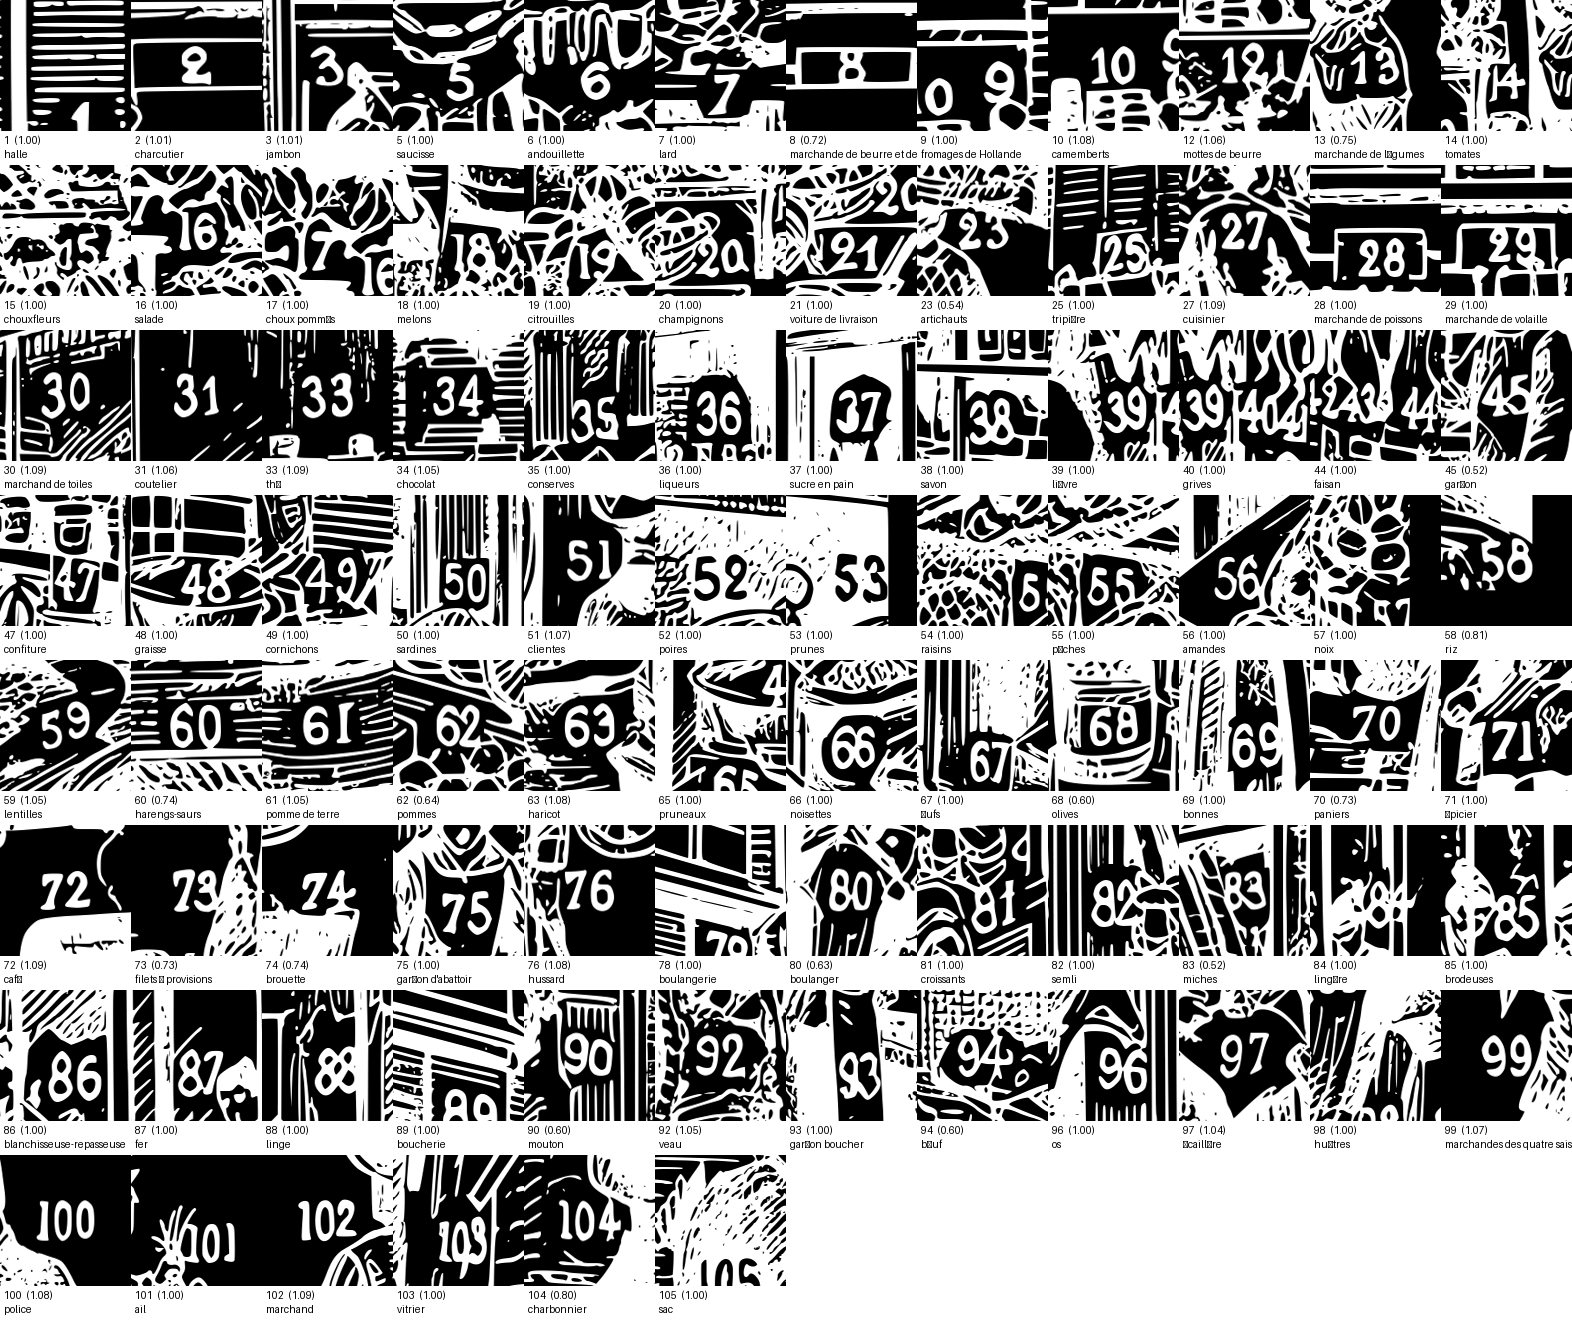
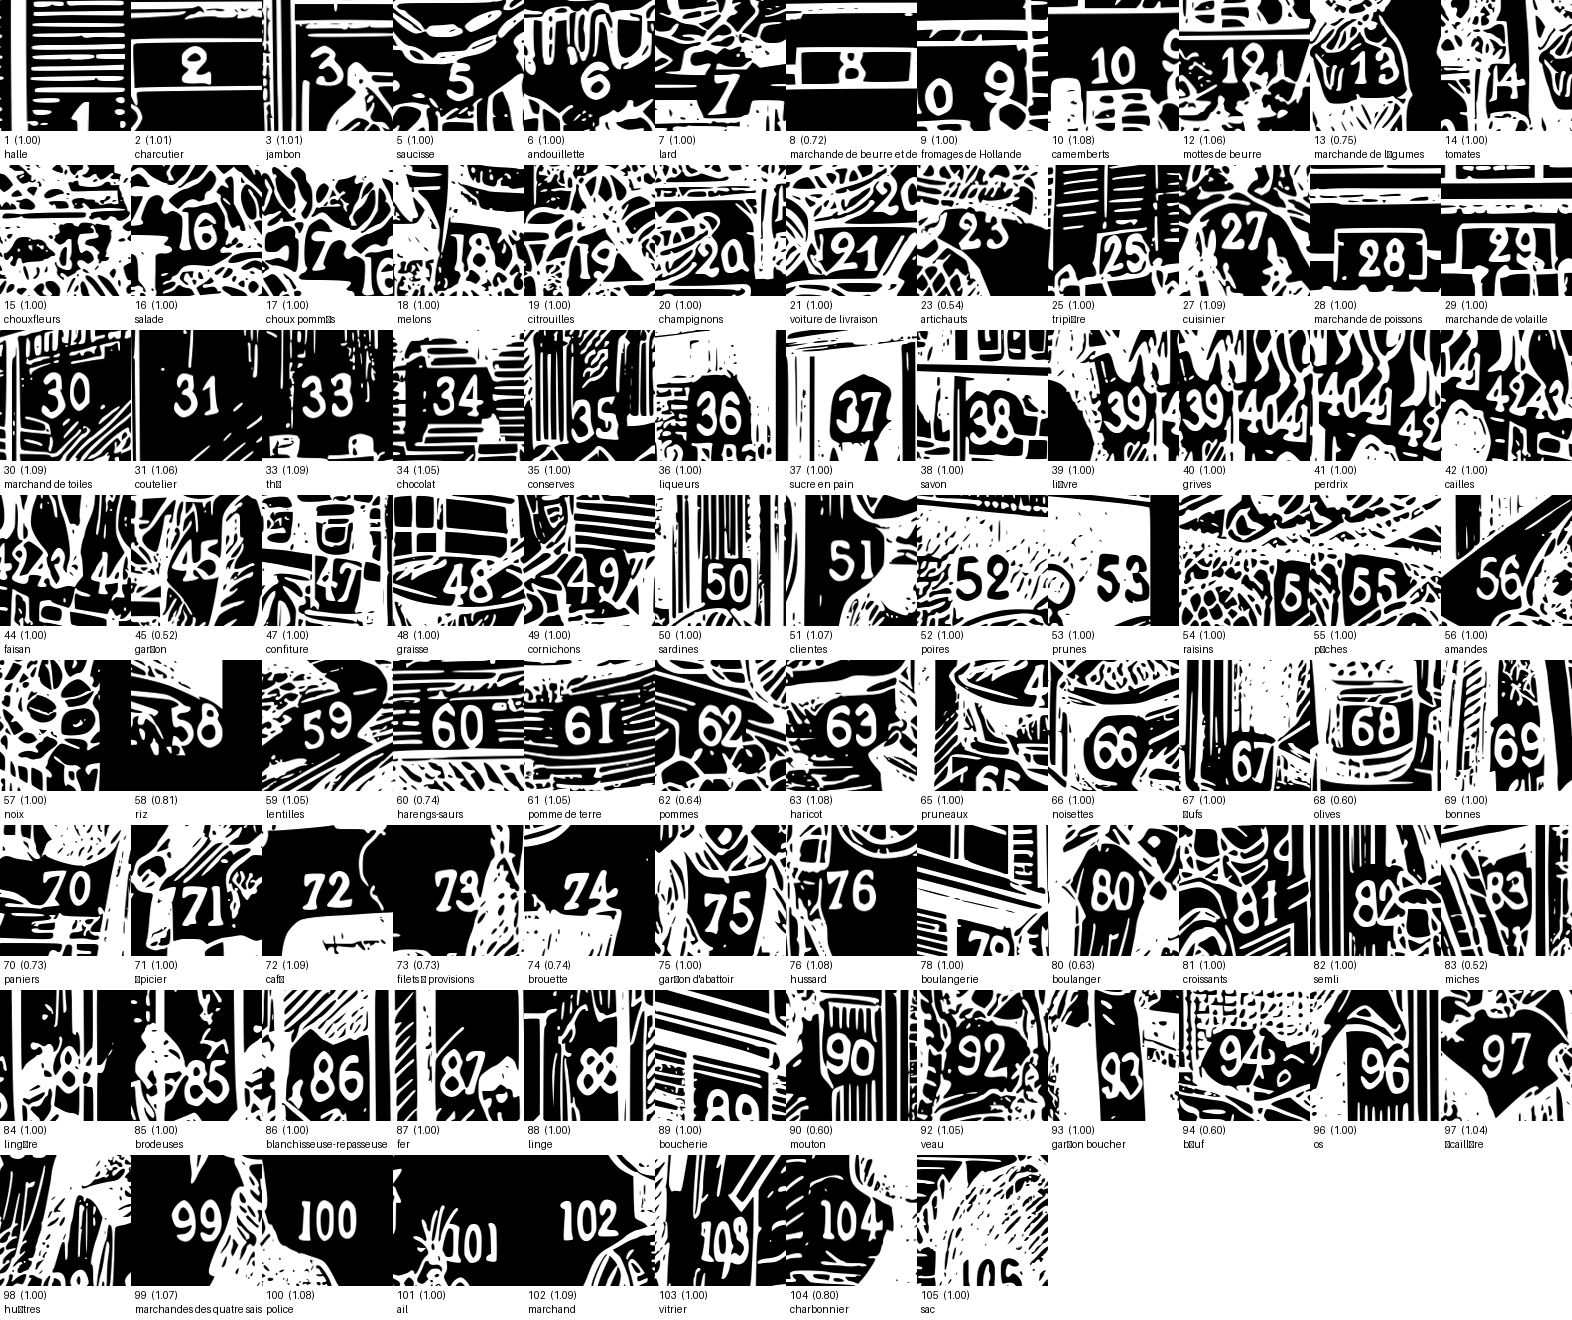
Le tableau 15 rend ses cailles ; 1519 numeros sur 1672
Les quatre nombres du gibier — 40, 41, 42, 43 — se suivent sur une meme
ligne de l'etal, si serres que le lecteur n'en distinguait qu'un. L'oeil
les separe.

2907 renvois cliquables dans la page.

Changed region(s): [[0.0, 0.2485, 1.0, 0.9939]]

diff --git a/index.html b/index.html
@@ -1039,7 +1039,7 @@ mark{background:rgba(180,85,45,.22);color:inherit;border-radius:2px}
 <div class="r p" id="t15-06-1" data-cle="t15-06-1"><div class="k io"><a class="fol" href="tabeli.pdf#page=97" title="Folio 97 en la PDF">97</a>6. — La <b>pultro-vendistino</b> <button class="lupo" data-g="t15-apar-1" data-c="0.664894,0.527263,0.011189,0.011178" data-n="29" title="pultro-vendistino" aria-expanded="false"><sup>(29)</sup></button>, instalita proxim elu, esas tre konciencoza. Kande el vendas <b>dindo, ganso, anado</b> o simpla <b>hanyuno,</b> el postulas nur la justa preco.</div><div class="k tra" data-lg="fr"><a class="fol fd" href="tableaux.pdf#page=84" title="Folio 82 dans le PDF">82</a>6. — La <b>marchande de volaille</b> <button class="lupo" data-g="t15-apar-1" data-c="0.664894,0.527263,0.011189,0.011178" data-n="29" title="marchande de volaille" aria-expanded="false"><sup>(29)</sup></button>, installée à côté d’elle, ’est très consciencieuse. Lorsqu’elle vend une <b>dinde</b>. une <b>oie</b>. un <b>canard</b> ou un simple <b>poulet,</b> elle ne demande que le plus juste prix.</div></div>
 <div class="r p" id="t15-07-1" data-cle="t15-07-1"><div class="k io"><a class="fol" href="tabeli.pdf#page=97" title="Folio 97 en la PDF">97</a>7. — Ye l’angulo di la placo, sur l’unesma etajo, de poka tempo, esas instalita <b>tel-vendisto</b> <button class="lupo" data-g="t15-apar-1" data-c="0.772377,0.31325,0.009538,0.013359" data-n="30" title="tel-vendisto" aria-expanded="false"><sup>(30)</sup></button> che qua la komprantini esas sempre certa trovar tre bela sortaro de <b>tablo-tuki,</b> <b>bok-tuki, avantali</b> e <b>vishili.</b> Sur la sama etajo, <b>kultelisto</b> <button class="lupo" data-g="t15-apar-1" data-c="0.958914,0.263904,0.008621,0.012268" data-n="31" title="kultelisto" aria-expanded="false"><sup>(31)</sup></button> instalis sua laboreyo. Il akutigas la <b>kulteli</b> di la vendistini en la halo e fabrikas por la gardenisti <b>serpi</b> ek la maxim harda <b>stalo.</b></div><div class="k tra" data-lg="fr"><a class="fol fd" href="tableaux.pdf#page=85" title="Folio 83 dans le PDF">83</a>7. — A l’angle de la place, au premier étage, est établi un <b>marchand de toiles</b> <button class="lupo" data-g="t15-apar-1" data-c="0.772377,0.31325,0.009538,0.013359" data-n="30" title="marchand de toiles" aria-expanded="false"><sup>(30)</sup></button> chez lequel les acheteuses sont toujours sûres de trouver un très joli assortiment de <b>nappes</b>, de <b>serviettes</b>, <b>tabliers</b> ou <b>torchons.</b> Au même étage, un <b>coutelier</b> <button class="lupo" data-g="t15-apar-1" data-c="0.958914,0.263904,0.008621,0.012268" data-n="31" title="coutelier" aria-expanded="false"><sup>(31)</sup></button> a installé son <b>atelier.</b> Il repasse les <b>couteaux</b> des marchandes de la halle et fabrique pour les jardiniers des <b>serpes</b> en acier de première qualité.</div></div>
 <div class="r sub" id="t15-tit-4" data-cle="t15-tit-4"><div class="k io"><a class="fol" href="tabeli.pdf#page=97" title="Folio 97 en la PDF">97</a><span class="pk" data-korpo="10.2pt" data-rolo="sekc">La Spicaro.</span></div><div class="k tra vaka" data-lg="fr"></div></div>
-<div class="r p" id="t15-08-1" data-cle="t15-08-1"><div class="k io"><a class="fol" href="tabeli.pdf#page=97" title="Folio 97 en la PDF">97</a>8. — Sub ilua laboreyo, de poka tempo, esas apertita granda magazino di nutrivi. Ja lu ne plus esas la simpla e neimportanta <b>spic-</b> <b>venderio</b> <sup>(32)</sup> olima, qua nur vendis la komunuza vari, <b>teo</b> <button class="lupo" data-g="t15-apar-1" data-c="0.974505,0.514177,0.010638,0.013086" data-n="33" title="teo" aria-expanded="false"><sup>(33)</sup></button>, <b>chokolado</b> <button class="lupo" data-g="t15-apar-1" data-c="0.898386,0.550709,0.010271,0.011723" data-n="34" title="chokolado" aria-expanded="false"><sup>(34)</sup></button> <b>bloka sukro</b> <button class="lupo" data-g="t15-apar-1" data-c="0.702861,0.52699,0.011555,0.011178" data-n="37" title="bloka sukro" aria-expanded="false"><sup>(37)</sup></button> e <b>sapono</b> <button class="lupo" data-g="t15-apar-1" data-c="0.719919,0.584515,0.011189,0.011178" data-n="38" title="sapono" aria-expanded="false"><sup>(38)</sup></button>. Ibe on vendas irga varo, <b>krakanta kuki</b>, <b>konservaji</b> <button class="lupo" data-g="t15-apar-1" data-c="0.832539,0.540894,0.011189,0.011178" data-n="35" title="konservaji" aria-expanded="false"><sup>(35)</sup></button>, <b>liquori</b> <button class="lupo" data-g="t15-apar-1" data-c="0.731475,0.52699,0.011739,0.011178" data-n="36" title="liquori" aria-expanded="false"><sup>(36)</sup></button>, <b>rumo,</b> <b>konyako, kirsho, aniz-liquoro</b> e <b>kuracao.</b> Ibe on trovas vildo : <b>leporo</b> <button class="lupo" data-g="t15-apar-1" data-c="0.681034,0.644493,0.011189,0.011178" data-n="39" title="leporo" aria-expanded="false"><sup>(39)</sup></button>, <b>turdi</b> <button class="lupo" data-g="t15-apar-1" data-c="0.69204,0.645038,0.012289,0.011178" data-n="40" title="turdi" aria-expanded="false"><sup>(40)</sup></button>, <b>perdriki</b> <sup>(41)</sup>, <b>qualii</b> <sup>(42)</sup>, <b>sovaj anado</b> <sup>(43)</sup> o <b>fazano</b> <button class="lupo" data-g="t15-apar-1" data-c="0.723955,0.658397,0.013023,0.011178" data-n="44" title="fazano" aria-expanded="false"><sup>(44)</sup></button>, tam facile kam exotika frukti tal quala <b>banani</b> <sup>(46)</sup> ed <b>ananasi.</b></div><div class="k tra" data-lg="fr"><a class="fol fd" href="tableaux.pdf#page=85" title="Folio 83 dans le PDF">83</a>8. — Au-dessous de son atelier s’est ouvert depuis peu de temps un important magasin de comestibles. Ce n’est plus simplement la modeste <b>épicerie</b> <sup>(32)</sup> d’autrefois, qui se contentait de vendre les choses usuelles, le <b>thé</b> <button class="lupo" data-g="t15-apar-1" data-c="0.974505,0.514177,0.010638,0.013086" data-n="33" title="thé" aria-expanded="false"><sup>(33)</sup></button>, le <b>chocolat</b> <button class="lupo" data-g="t15-apar-1" data-c="0.898386,0.550709,0.010271,0.011723" data-n="34" title="chocolat" aria-expanded="false"><sup>(34)</sup></button>, le <b>sucre en</b> <b>pain</b> <button class="lupo" data-g="t15-apar-1" data-c="0.702861,0.52699,0.011555,0.011178" data-n="37" title="sucre en pain" aria-expanded="false"><sup>(37)</sup></button> et le <b>savon</b> <button class="lupo" data-g="t15-apar-1" data-c="0.719919,0.584515,0.011189,0.011178" data-n="38" title="savon" aria-expanded="false"><sup>(38)</sup></button>. Ici on vend de tout, des <b>gâteaux secs</b>, des <b>conserves</b> <button class="lupo" data-g="t15-apar-1" data-c="0.832539,0.540894,0.011189,0.011178" data-n="35" title="conserves" aria-expanded="false"><sup>(35)</sup></button>, des <b>liqueurs</b> <button class="lupo" data-g="t15-apar-1" data-c="0.731475,0.52699,0.011739,0.011178" data-n="36" title="liqueurs" aria-expanded="false"><sup>(36)</sup></button>, <b>rhum, cognac, kirsch, anisette</b> et <b>curaçao.</b> On y trouve aussi bien du <b>gibier</b> : <b>lièvre</b> <button class="lupo" data-g="t15-apar-1" data-c="0.681034,0.644493,0.011189,0.011178" data-n="39" title="lièvre" aria-expanded="false"><sup>(39)</sup></button>, <b>grives</b> <button class="lupo" data-g="t15-apar-1" data-c="0.69204,0.645038,0.012289,0.011178" data-n="40" title="grives" aria-expanded="false"><sup>(40)</sup></button>, <b>perdrix</b> <sup>(41)</sup>, <b>cailles</b> <sup>(42)</sup>, <b>canard sauvage</b> <sup>(43)</sup> ou <b>faisan</b> <button class="lupo" data-g="t15-apar-1" data-c="0.723955,0.658397,0.013023,0.011178" data-n="44" title="faisan" aria-expanded="false"><sup>(44)</sup></button>, que des fruits exotiques tels que les <b>bananes</b> <sup>(46)</sup> et les <b>ananas.</b></div></div>
+<div class="r p" id="t15-08-1" data-cle="t15-08-1"><div class="k io"><a class="fol" href="tabeli.pdf#page=97" title="Folio 97 en la PDF">97</a>8. — Sub ilua laboreyo, de poka tempo, esas apertita granda magazino di nutrivi. Ja lu ne plus esas la simpla e neimportanta <b>spic-</b> <b>venderio</b> <sup>(32)</sup> olima, qua nur vendis la komunuza vari, <b>teo</b> <button class="lupo" data-g="t15-apar-1" data-c="0.974505,0.514177,0.010638,0.013086" data-n="33" title="teo" aria-expanded="false"><sup>(33)</sup></button>, <b>chokolado</b> <button class="lupo" data-g="t15-apar-1" data-c="0.898386,0.550709,0.010271,0.011723" data-n="34" title="chokolado" aria-expanded="false"><sup>(34)</sup></button> <b>bloka sukro</b> <button class="lupo" data-g="t15-apar-1" data-c="0.702861,0.52699,0.011555,0.011178" data-n="37" title="bloka sukro" aria-expanded="false"><sup>(37)</sup></button> e <b>sapono</b> <button class="lupo" data-g="t15-apar-1" data-c="0.719919,0.584515,0.011189,0.011178" data-n="38" title="sapono" aria-expanded="false"><sup>(38)</sup></button>. Ibe on vendas irga varo, <b>krakanta kuki</b>, <b>konservaji</b> <button class="lupo" data-g="t15-apar-1" data-c="0.832539,0.540894,0.011189,0.011178" data-n="35" title="konservaji" aria-expanded="false"><sup>(35)</sup></button>, <b>liquori</b> <button class="lupo" data-g="t15-apar-1" data-c="0.731475,0.52699,0.011739,0.011178" data-n="36" title="liquori" aria-expanded="false"><sup>(36)</sup></button>, <b>rumo,</b> <b>konyako, kirsho, aniz-liquoro</b> e <b>kuracao.</b> Ibe on trovas vildo : <b>leporo</b> <button class="lupo" data-g="t15-apar-1" data-c="0.681034,0.644493,0.011189,0.011178" data-n="39" title="leporo" aria-expanded="false"><sup>(39)</sup></button>, <b>turdi</b> <button class="lupo" data-g="t15-apar-1" data-c="0.69204,0.645038,0.012289,0.011178" data-n="40" title="turdi" aria-expanded="false"><sup>(40)</sup></button>, <b>perdriki</b> <button class="lupo" data-g="t15-apar-1" data-c="0.703412,0.649673,0.010455,0.011178" data-n="41" title="perdriki" aria-expanded="false"><sup>(41)</sup></button>, <b>qualii</b> <button class="lupo" data-g="t15-apar-1" data-c="0.711665,0.659215,0.012289,0.011178" data-n="42" title="qualii" aria-expanded="false"><sup>(42)</sup></button>, <b>sovaj anado</b> <sup>(43)</sup> o <b>fazano</b> <button class="lupo" data-g="t15-apar-1" data-c="0.723955,0.658397,0.013023,0.011178" data-n="44" title="fazano" aria-expanded="false"><sup>(44)</sup></button>, tam facile kam exotika frukti tal quala <b>banani</b> <sup>(46)</sup> ed <b>ananasi.</b></div><div class="k tra" data-lg="fr"><a class="fol fd" href="tableaux.pdf#page=85" title="Folio 83 dans le PDF">83</a>8. — Au-dessous de son atelier s’est ouvert depuis peu de temps un important magasin de comestibles. Ce n’est plus simplement la modeste <b>épicerie</b> <sup>(32)</sup> d’autrefois, qui se contentait de vendre les choses usuelles, le <b>thé</b> <button class="lupo" data-g="t15-apar-1" data-c="0.974505,0.514177,0.010638,0.013086" data-n="33" title="thé" aria-expanded="false"><sup>(33)</sup></button>, le <b>chocolat</b> <button class="lupo" data-g="t15-apar-1" data-c="0.898386,0.550709,0.010271,0.011723" data-n="34" title="chocolat" aria-expanded="false"><sup>(34)</sup></button>, le <b>sucre en</b> <b>pain</b> <button class="lupo" data-g="t15-apar-1" data-c="0.702861,0.52699,0.011555,0.011178" data-n="37" title="sucre en pain" aria-expanded="false"><sup>(37)</sup></button> et le <b>savon</b> <button class="lupo" data-g="t15-apar-1" data-c="0.719919,0.584515,0.011189,0.011178" data-n="38" title="savon" aria-expanded="false"><sup>(38)</sup></button>. Ici on vend de tout, des <b>gâteaux secs</b>, des <b>conserves</b> <button class="lupo" data-g="t15-apar-1" data-c="0.832539,0.540894,0.011189,0.011178" data-n="35" title="conserves" aria-expanded="false"><sup>(35)</sup></button>, des <b>liqueurs</b> <button class="lupo" data-g="t15-apar-1" data-c="0.731475,0.52699,0.011739,0.011178" data-n="36" title="liqueurs" aria-expanded="false"><sup>(36)</sup></button>, <b>rhum, cognac, kirsch, anisette</b> et <b>curaçao.</b> On y trouve aussi bien du <b>gibier</b> : <b>lièvre</b> <button class="lupo" data-g="t15-apar-1" data-c="0.681034,0.644493,0.011189,0.011178" data-n="39" title="lièvre" aria-expanded="false"><sup>(39)</sup></button>, <b>grives</b> <button class="lupo" data-g="t15-apar-1" data-c="0.69204,0.645038,0.012289,0.011178" data-n="40" title="grives" aria-expanded="false"><sup>(40)</sup></button>, <b>perdrix</b> <button class="lupo" data-g="t15-apar-1" data-c="0.703412,0.649673,0.010455,0.011178" data-n="41" title="perdrix" aria-expanded="false"><sup>(41)</sup></button>, <b>cailles</b> <button class="lupo" data-g="t15-apar-1" data-c="0.711665,0.659215,0.012289,0.011178" data-n="42" title="cailles" aria-expanded="false"><sup>(42)</sup></button>, <b>canard sauvage</b> <sup>(43)</sup> ou <b>faisan</b> <button class="lupo" data-g="t15-apar-1" data-c="0.723955,0.658397,0.013023,0.011178" data-n="44" title="faisan" aria-expanded="false"><sup>(44)</sup></button>, que des fruits exotiques tels que les <b>bananes</b> <sup>(46)</sup> et les <b>ananas.</b></div></div>
 <div class="r p" id="t15-09-1" data-cle="t15-09-1"><div class="k io"><a class="fol" href="tabeli.pdf#page=98" title="Folio 98 en la PDF">98</a>9. — Spicista <b>garsono</b> <button class="lupo" data-g="t15-apar-1" data-c="0.770726,0.693293,0.010822,0.011723" data-n="45" title="garsono" aria-expanded="false"><sup>(45)</sup></button> tre komplezema, esas pronta por donar to quon on deziras : <b>konfitajo</b> <button class="lupo" data-g="t15-apar-1" data-c="0.845194,0.655398,0.012289,0.011178" data-n="47" title="konfitajo" aria-expanded="false"><sup>(47)</sup></button> riba o quinga, <b>graso</b> <button class="lupo" data-g="t15-apar-1" data-c="0.810528,0.701745,0.011922,0.011178" data-n="48" title="graso" aria-expanded="false"><sup>(48)</sup></button>, <b>kukombreti</b> <button class="lupo" data-g="t15-apar-1" data-c="0.838225,0.694929,0.011922,0.011178" data-n="49" title="kukombreti" aria-expanded="false"><sup>(49)</sup></button> o salizita <b>sardini</b> <button class="lupo" data-g="t15-apar-1" data-c="0.868122,0.686205,0.011189,0.011178" data-n="50" title="sardini" aria-expanded="false"><sup>(50)</sup></button>.</div><div class="k tra" data-lg="fr"><a class="fol fd" href="tableaux.pdf#page=85" title="Folio 83 dans le PDF">83</a>9. — Un <b>garçon</b> <button class="lupo" data-g="t15-apar-1" data-c="0.770726,0.693293,0.010822,0.011723" data-n="45" title="garçon" aria-expanded="false"><sup>(45)</sup></button> épicier, très complaisant, est prêt à servir ce que l’on désire : <b>confiture</b> <button class="lupo" data-g="t15-apar-1" data-c="0.845194,0.655398,0.012289,0.011178" data-n="47" title="confiture" aria-expanded="false"><sup>(47)</sup></button> (de <b>groseille</b> ou de <b>coing</b>), <b>graisse</b> <button class="lupo" data-g="t15-apar-1" data-c="0.810528,0.701745,0.011922,0.011178" data-n="48" title="graisse" aria-expanded="false"><sup>(48)</sup></button>, <b>cornichons</b> <button class="lupo" data-g="t15-apar-1" data-c="0.838225,0.694929,0.011922,0.011178" data-n="49" title="cornichons" aria-expanded="false"><sup>(49)</sup></button> ou bien <b>sardines</b> <button class="lupo" data-g="t15-apar-1" data-c="0.868122,0.686205,0.011189,0.011178" data-n="50" title="sardines" aria-expanded="false"><sup>(50)</sup></button> salées.</div></div>
 <div class="r p" id="t15-09-2" data-cle="t15-09-2"><div class="k io"><a class="fol" href="tabeli.pdf#page=98" title="Folio 98 en la PDF">98</a>To esas tre oportuna por la <b>klientini</b> <button class="lupo" data-g="t15-apar-1" data-c="0.891599,0.725463,0.008437,0.010905" data-n="51" title="klientini" aria-expanded="false"><sup>(51)</sup></button>, qui trovas, apud la maxim komunuza vari, la premici maxim rara e la frukti maxim saporoza : sukoza <b>piri</b> <button class="lupo" data-g="t15-apar-1" data-c="0.954329,0.650491,0.011189,0.011178" data-n="52" title="piri" aria-expanded="false"><sup>(52)</sup></button>, <b>pruni</b> <button class="lupo" data-g="t15-apar-1" data-c="0.98661,0.656761,0.011189,0.011178" data-n="53" title="pruni" aria-expanded="false"><sup>(53)</sup></button>, <b>vitberi</b> <button class="lupo" data-g="t15-apar-1" data-c="0.966618,0.732279,0.011922,0.011178" data-n="54" title="vitberi" aria-expanded="false"><sup>(54)</sup></button>, <b>persiki</b> <button class="lupo" data-g="t15-apar-1" data-c="0.980558,0.733915,0.010822,0.011178" data-n="55" title="persiki" aria-expanded="false"><sup>(55)</sup></button>, <b>mandeli</b> <button class="lupo" data-g="t15-apar-1" data-c="0.942957,0.868866,0.011372,0.011178" data-n="56" title="mandeli" aria-expanded="false"><sup>(56)</sup></button> e <b>nuci</b> <button class="lupo" data-g="t15-apar-1" data-c="0.987161,0.909215,0.011189,0.011178" data-n="57" title="nuci" aria-expanded="false"><sup>(57)</sup></button>.</div><div class="k tra" data-lg="fr"><a class="fol fd" href="tableaux.pdf#page=85" title="Folio 83 dans le PDF">83</a>C’est fort commode pour les <b>clientes</b> <button class="lupo" data-g="t15-apar-1" data-c="0.891599,0.725463,0.008437,0.010905" data-n="51" title="clientes" aria-expanded="false"><sup>(51)</sup></button>, qui trouvent, à côté des choses les plus vulgaires, les <b>primeurs</b> les plus rares et les <b>fruits</b> les plus savoureux : <b>poires</b> <button class="lupo" data-g="t15-apar-1" data-c="0.954329,0.650491,0.011189,0.011178" data-n="52" title="poires" aria-expanded="false"><sup>(52)</sup></button> fondantes, <b>prunes</b> <button class="lupo" data-g="t15-apar-1" data-c="0.98661,0.656761,0.011189,0.011178" data-n="53" title="prunes" aria-expanded="false"><sup>(53)</sup></button>, <b>raisins</b> <button class="lupo" data-g="t15-apar-1" data-c="0.966618,0.732279,0.011922,0.011178" data-n="54" title="raisins" aria-expanded="false"><sup>(54)</sup></button>, <b>pêches</b> <button class="lupo" data-g="t15-apar-1" data-c="0.980558,0.733915,0.010822,0.011178" data-n="55" title="pêches" aria-expanded="false"><sup>(55)</sup></button>, <b>amandes</b> <button class="lupo" data-g="t15-apar-1" data-c="0.942957,0.868866,0.011372,0.011178" data-n="56" title="amandes" aria-expanded="false"><sup>(56)</sup></button> et <b>noix</b> <button class="lupo" data-g="t15-apar-1" data-c="0.987161,0.909215,0.011189,0.011178" data-n="57" title="noix" aria-expanded="false"><sup>(57)</sup></button>.</div></div>
 <div class="r sub" id="t15-tit-5" data-cle="t15-tit-5"><div class="k io"><a class="fol" href="tabeli.pdf#page=98" title="Folio 98 en la PDF">98</a><span class="pk" data-korpo="10.2pt" data-rolo="sekc">La Klientaro.</span></div><div class="k tra vaka" data-lg="fr"></div></div>
